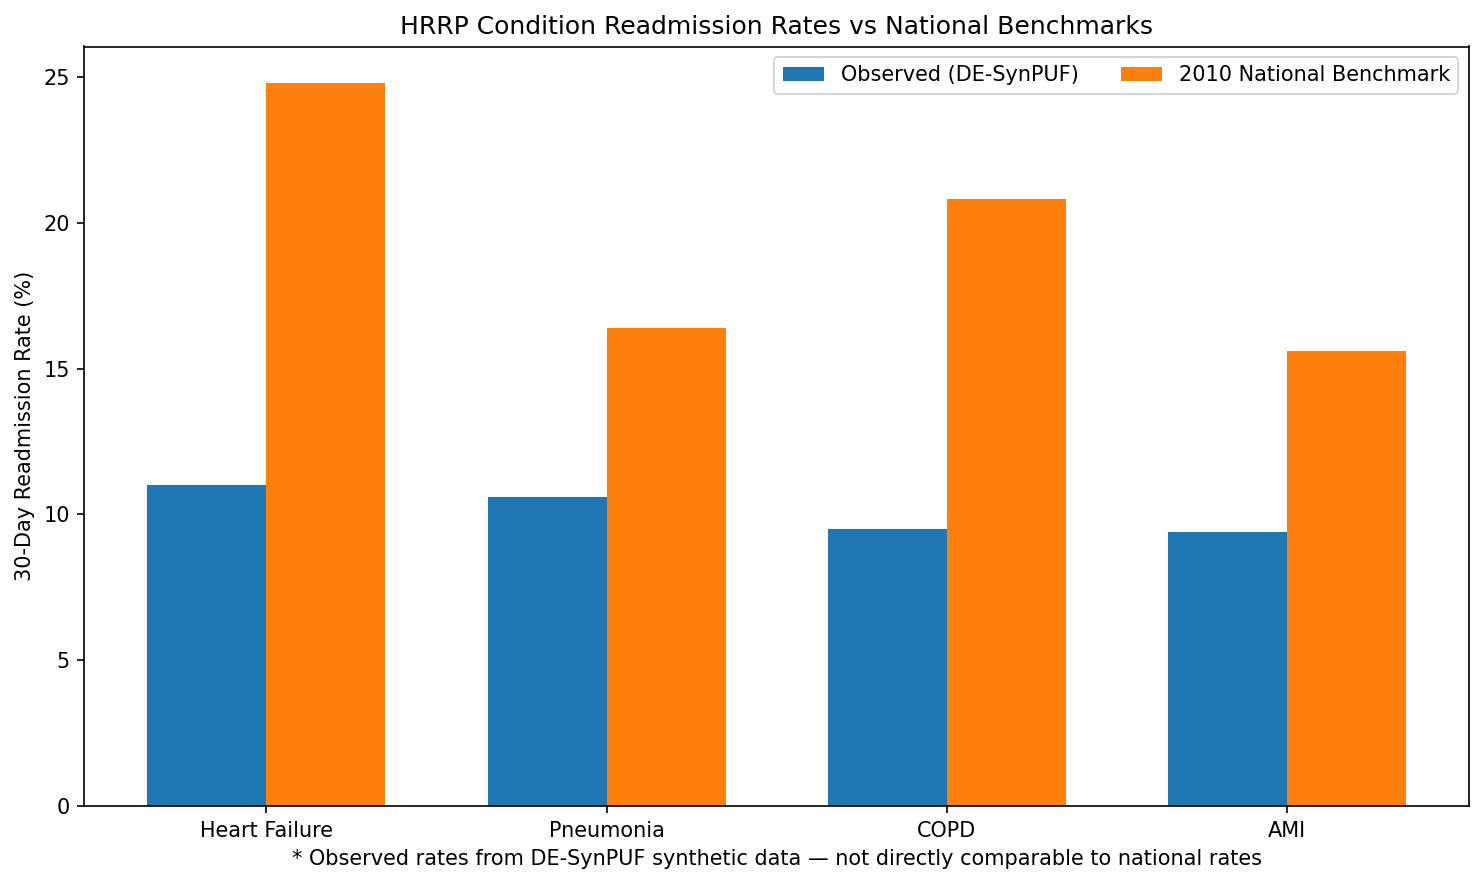
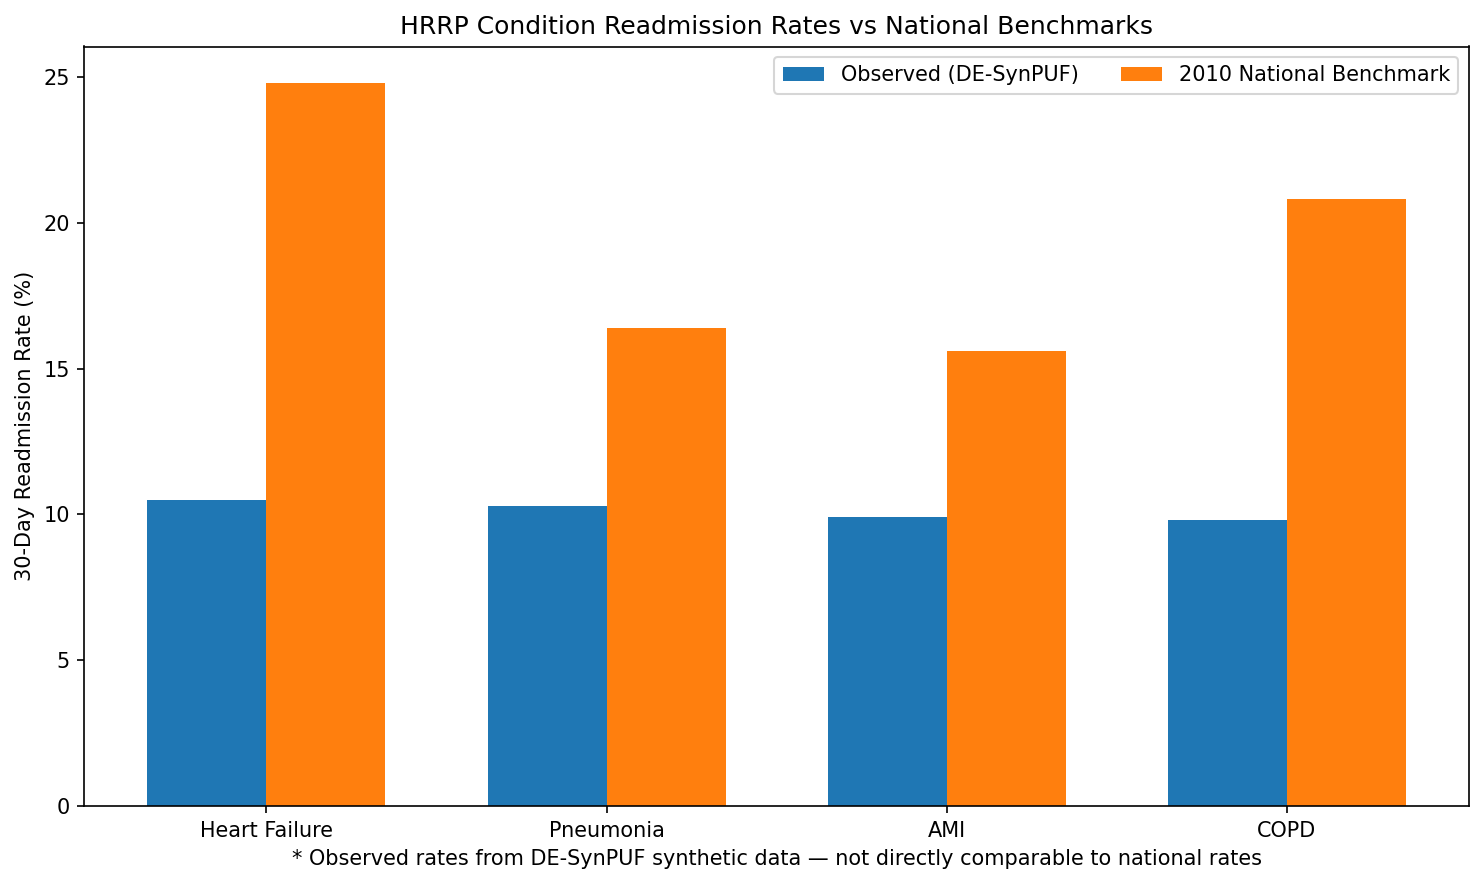
docs(09,11): use principal diagnosis per CMS HRRP methodology
Replaced ADMTNG_ICD9_DGNS_CD with ICD9_DGNS_CD_1 in 09 and 11 per CMS
HRRP cohort methodology (Suter et al., 2014). Rates shifted ≤0.5pp
across all four conditions; no change to overall finding. Updated
README HRRP table, Methods section, and References. Logged in
data_quality_log.md.

diff --git a/README.md b/README.md
@@ -33,10 +33,10 @@ All diagnosis based HRRP conditions have readmission rates significantly lower t
 
 | Condition | Cited Readmission Rate | DE-SynPUF rate | Difference (pp) |
 |-----------|------------------------|----------------|------------|
-| Heart Failure | 24.8% | 11.0% | -13.8 |
-| Pneumonia | 16.4% | 10.6% | -5.8 |
-| COPD | 20.8% | 9.5% | -11.3 |
-| AMI | 15.6% | 9.4% | -6.2 |
+| Heart Failure | 24.8% | 10.5% | -14.3 |
+| Pneumonia | 16.4% | 10.3% | -6.1 |
+| COPD | 20.8% | 9.8% | -11.0 |
+| AMI | 15.6% | 9.9% | -5.7 |
 
 *Observed rates are crude (unadjusted); national benchmarks are risk-standardized. Synthetic data limitations apply — see Limitations section.*
 
@@ -68,6 +68,8 @@ If applied to real claims data, this analysis would enable:
 - **Statistical reliability filter:** DRGs retained only where n×p ≥ 10 and
   n×(1−p) ≥ 10 (CLT proportions check), preventing unstable rates from
   low-volume diagnosis groups
+- **HRRP condition mapping:** ICD-9 diagnosis codes mapped to condition categories 
+  (AMI, Heart Failure, Pneumonia, COPD) using `ICD9_DGNS_CD_1` (principal discharge diagnosis), consistent with CMS HRRP cohort methodology (Suter et al., 2014 — see References). Rates were originally computed using admitting diagnosis; recomputing with principal diagnosis shifted rates by ≤0.5 percentage points across all four conditions, with no change to the overall finding that observed rates fall substantially below national benchmarks.     
 - **Rate calculation:** Conditional aggregation (AVG of CASE WHEN) by DRG
 - **Uncertainty quantification:** 95% Wilson confidence intervals computed
   for each DRG's readmission rate (statsmodels.stats.proportion_confint),
@@ -172,6 +174,14 @@ Rachoin, J.-S., Hunter, K., Varallo, J., & Cerceo, E. (2024). Impact of time
 from discharge to readmission on outcomes: an observational study from the US 
 National Readmission Database. *BMJ Open, 14*(8), e085466. 
 https://doi.org/10.1136/bmjopen-2024-085466
+
+Suter LG, Li SX, Grady JN, Lin Z, Wang Y, Bhat KR, Turkmani D, Spivack SB, 
+Lindenauer PK, Merrill AR, Drye EE, Krumholz HM, Bernheim SM. National patterns 
+of risk-standardized mortality and readmission after hospitalization for acute 
+myocardial infarction, heart failure, and pneumonia: update on publicly reported 
+outcomes measures based on the 2013 release. J Gen Intern Med. 2014 
+Oct;29(10):1333-40. doi: 10.1007/s11606-014-2862-5. PMID: 24825244; PMCID: PMC4175654.
+
 
 ## Author
 

diff --git a/data_quality_log.md b/data_quality_log.md
@@ -41,3 +41,13 @@
   count for this dataset.
 - Decision: no code change needed in 05. Added clarifying comment to the file 
   documenting the verification and the reason for the match.
+
+## Query 09 & 11 Diagnosis code update — 08/16/26 
+- Replaced admitting diagnosis code (ADMTNG_ICD9_DGNS_CD) with principal discharge 
+  diagnosis code (ICD9_DGNS_CD_1) in queries 09 and 11, per CMS HRRP cohort 
+  methodology (Suter et al., 2014).
+- Recomputing shifted rates by ≤0.5 percentage points across all four conditions; 
+  no substantial change to the overall finding that observed rates fall 
+  substantially below national benchmarks.
+- Decision: updated README HRRP table and Methods section with corrected rates 
+  and field justification; added citation to References.
